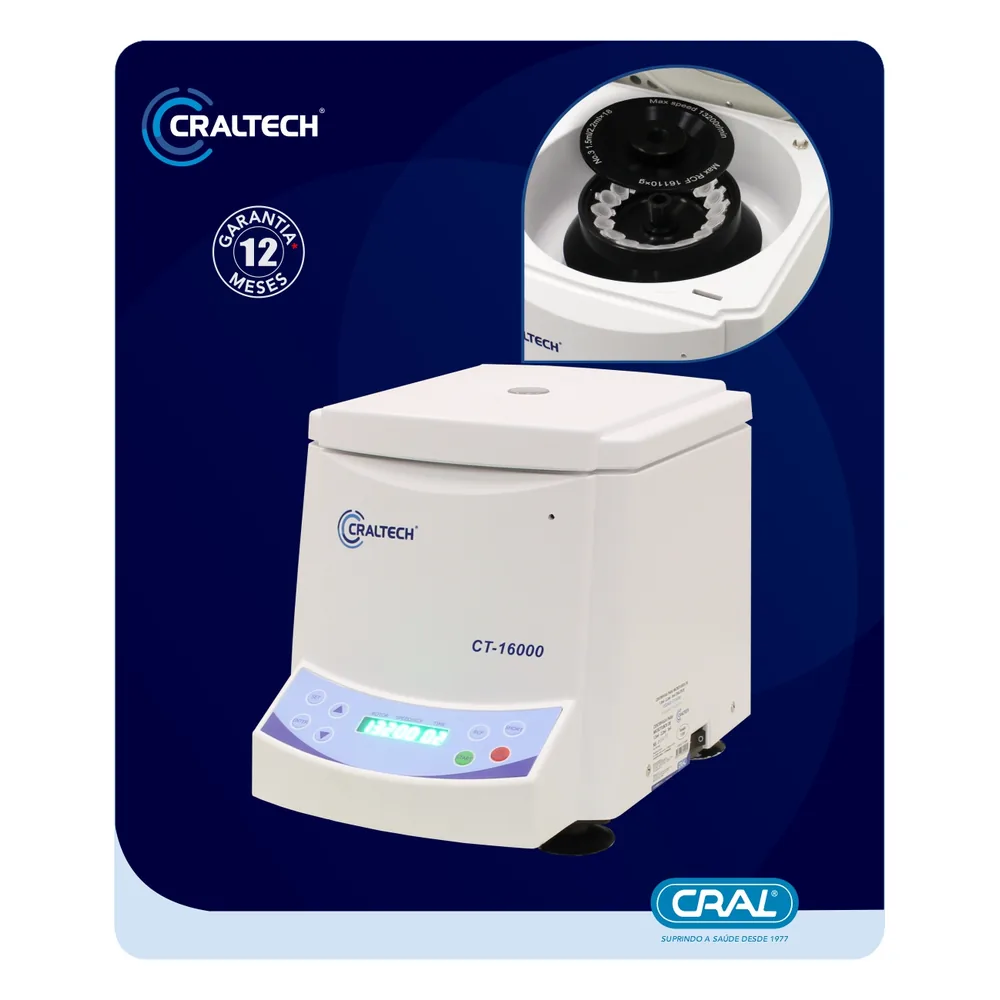
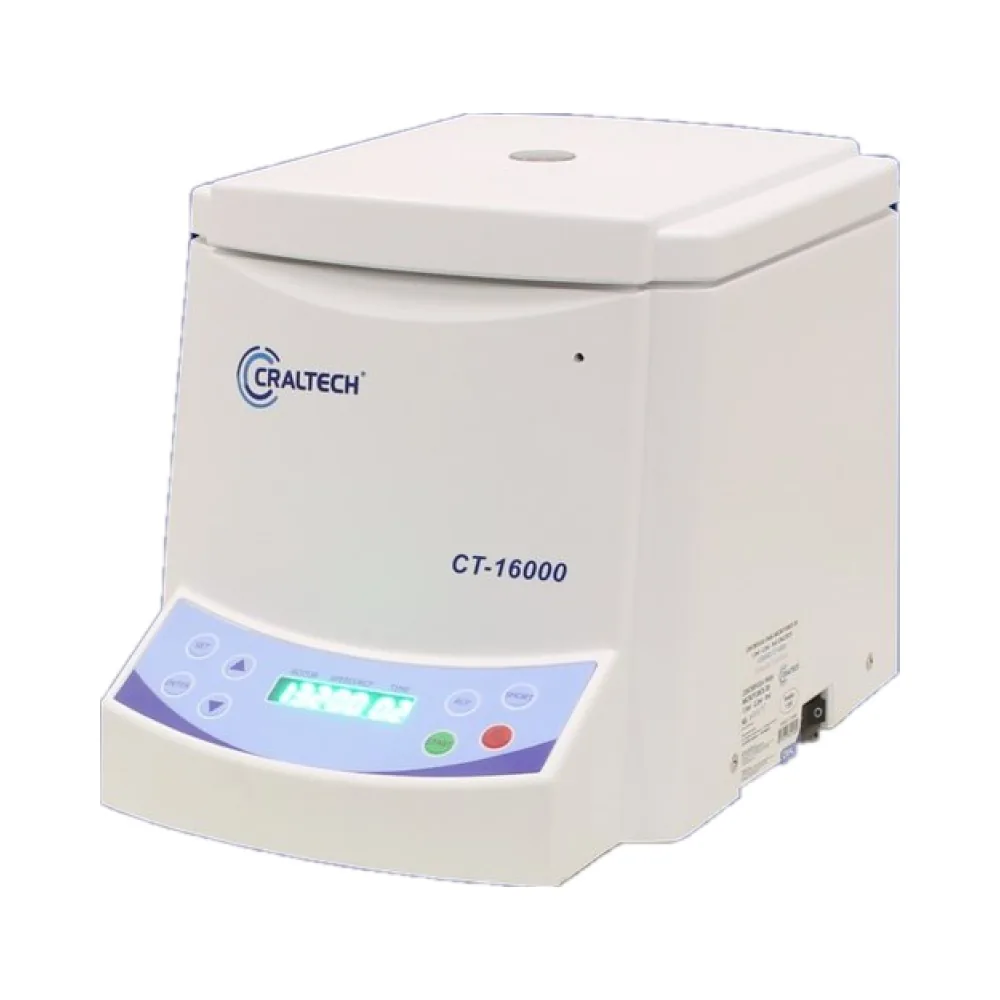
Centrífugas: fotos recortadas em fundo branco (padrão da loja)
Claude-Session: https://claude.ai/code/session_01HbcAtfdYQHYDg6zEPhBm4F

diff --git a/index.html b/index.html
@@ -3,7 +3,7 @@
 <head>
 <meta charset="UTF-8">
 <meta name="viewport" content="width=device-width, initial-scale=1">
-<script>(function(){var V=window.__LOJA_V={c:"/data/catalogo.json?v=bd7cf6e66e",p:"/data/precos.json?v=f443c332bb",f:"/data/ficha.json?v=e4802bf98e",j:"/js/loja.js?v=57cbf53daf"};function g(u,o){return fetch(u,o).then(function(r){if(!r.ok)throw new Error(r.status);return r.json();});}function d(o){return Promise.all([g(V.c,o),g(V.p,o)]);}window.__dadosLoja=d().catch(function(){return d({cache:"reload"});});var Q=[],N=["abrirCarrinho","abrirConta","abrirContatoWA","abrirListaOrcamento","abrirRastreio","boletoFaturado","buscarTermo","carregarMeusPedidos","cartBuscar","cepAuto","cnpjAuto","confirmarContatoWA","definirSenhaSite","duvidaCheckout","fazerBusca","fbCadastro","fbLogin","fbLogout","fbReset","fecharCarrinho","fecharCheckout","fecharConta","fecharContatoWA","fecharProd","fecharRastreio","fgConsulta","irProdutos","irSecao","lookupRastreio","pagarMP","render","setAccDoc","setAccTab","setDept","setDoc","setPg","toggleCNPJ","verTodosGreiner","waArquivoWhats","waCepAuto","waDocAuto","waSetDoc"];N.forEach(function(n){if(typeof window[n]!=="function")window[n]=function(){Q.push([n,arguments]);};});window.addEventListener("sullab:loja",function(){var q=Q;Q=[];q.forEach(function(c){try{window[c[0]].apply(window,c[1]);}catch(e){}});});})();</script>
+<script>(function(){var V=window.__LOJA_V={c:"/data/catalogo.json?v=1acc7e7c83",p:"/data/precos.json?v=f443c332bb",f:"/data/ficha.json?v=e4802bf98e",j:"/js/loja.js?v=57cbf53daf"};function g(u,o){return fetch(u,o).then(function(r){if(!r.ok)throw new Error(r.status);return r.json();});}function d(o){return Promise.all([g(V.c,o),g(V.p,o)]);}window.__dadosLoja=d().catch(function(){return d({cache:"reload"});});var Q=[],N=["abrirCarrinho","abrirConta","abrirContatoWA","abrirListaOrcamento","abrirRastreio","boletoFaturado","buscarTermo","carregarMeusPedidos","cartBuscar","cepAuto","cnpjAuto","confirmarContatoWA","definirSenhaSite","duvidaCheckout","fazerBusca","fbCadastro","fbLogin","fbLogout","fbReset","fecharCarrinho","fecharCheckout","fecharConta","fecharContatoWA","fecharProd","fecharRastreio","fgConsulta","irProdutos","irSecao","lookupRastreio","pagarMP","render","setAccDoc","setAccTab","setDept","setDoc","setPg","toggleCNPJ","verTodosGreiner","waArquivoWhats","waCepAuto","waDocAuto","waSetDoc"];N.forEach(function(n){if(typeof window[n]!=="function")window[n]=function(){Q.push([n,arguments]);};});window.addEventListener("sullab:loja",function(){var q=Q;Q=[];q.forEach(function(c){try{window[c[0]].apply(window,c[1]);}catch(e){}});});})();</script>
 <link rel="preload" href="/js/loja.js?v=57cbf53daf" as="script">
 <title>SULLAB · Materiais para laboratório e diagnóstico — atacado com NF-e</title>
 <meta name="description" content="Distribuidora de produtos para laboratório: tubos a vácuo, testes rápidos, reagentes, meios de cultura e descartáveis. Compra no site, NF-e e entrega no Brasil.">
